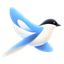
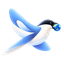
로고를 지구본 문 물까치로 교체
새로 주신 그림으로 갈아 끼웠다. 앞선 것과 같은 손질을 거쳤다.

  · 날개 파랑의 채도를 0.62배로 낮춰 실제 물까치의 하늘색에 맞춘다.
    다만 부리에 문 지구본은 빼고 보정했다 — 바다의 파랑이 날개와 색상대가
    겹쳐서, 그대로 두면 지구본까지 함께 바랜다. 초록(대륙) 픽셀이 모인
    자리로 지구본을 찾아 그 둘레를 보정에서 제외했다.
  · 검은 바탕은 테두리에서 물을 채워 걷어냈다. 검은 두건은 배경과 이어져
    있지 않아 그대로 남는다.
  · 여백 10%를 두고 정사각으로 맞춰 512·192·64로 내보냈다.

밝은 화면과 어두운 화면에 얹어 확인했다. 지구본이 또렷하게 남고 날개만
차분해졌다.

빌드 스탬프 20260903t.

Claude-Session: https://claude.ai/code/session_0111yRyXzGisqdrG9SKT91iY

diff --git a/index.html b/index.html
@@ -13,10 +13,10 @@
 <link rel="stylesheet" crossorigin href="https://cdn.jsdelivr.net/gh/orioncactus/pretendard@v1.3.9/dist/web/static/pretendard.min.css">
 <link href="https://fonts.googleapis.com/css2?family=Space+Grotesk:wght@400;500;600;700&display=swap" rel="stylesheet">
 </noscript>
-<link rel="icon" href="img/magpie-64.png?v=20260903s">
-<link rel="apple-touch-icon" href="img/magpie-192.png?v=20260903s">
+<link rel="icon" href="img/magpie-64.png?v=20260903t">
+<link rel="apple-touch-icon" href="img/magpie-192.png?v=20260903t">
 <script>(function(){try{var m=localStorage.getItem('seji_theme')||(matchMedia('(prefers-color-scheme: light)').matches?'light':'dark');document.documentElement.dataset.theme=m;}catch(e){}})();</script>
-<link rel="stylesheet" href="css/main.css?v=20260903s">
+<link rel="stylesheet" href="css/main.css?v=20260903t">
 </head>
 <body>
 <button id="theme-toggle" type="button" title="화면 밝기 전환" onclick="toggleTheme()"></button>
@@ -28,7 +28,7 @@
       <path d="M-10 150 C 90 150 130 40 260 40 C 390 40 430 150 530 150"/>
     </svg>
     <div class="g3-lockup" aria-label="Geogl3">
-      <img class="g3-bird" src="img/magpie-512.png?v=20260903s" alt="" width="512" height="512" decoding="async"/>
+      <img class="g3-bird" src="img/magpie-512.png?v=20260903t" alt="" width="512" height="512" decoding="async"/>
       <div class="g3-logo">Geogl3</div>
     </div>
     <p class="ld-tag">See the world from above</p>
@@ -4944,25 +4944,25 @@
     <button class="reb secondary" onclick="runPendingReset();document.getElementById('rbq-end').classList.remove('on')">다시 시작</button>
   </div>
 </div>
-<script src="js/data.js?v=20260903s"></script>
-<script src="js/rivers-data.js?v=20260903s"></script>
-<script src="js/climate-data.js?v=20260903s"></script>
-<script src="js/religion-pop-data.js?v=20260903s"></script>
-<script src="js/climate-map-data.js?v=20260903s"></script>
-<script src="js/app.js?v=20260903s"></script>
-<script src="js/climate.js?v=20260903s"></script>
-<script src="js/dict-data.js?v=20260903s"></script>
-<script src="js/flag-colors-data.js?v=20260903s"></script>
-<script src="js/flag-bg-data.js?v=20260903s"></script>
-<script src="js/dict.js?v=20260903s"></script>
-<script src="js/suteuk-data.js?v=20260903s"></script>
-<script src="js/suteuk.js?v=20260903s"></script>
-<script src="js/stat-data.js?v=20260903s"></script>
-<script src="js/stat.js?v=20260903s"></script>
+<script src="js/data.js?v=20260903t"></script>
+<script src="js/rivers-data.js?v=20260903t"></script>
+<script src="js/climate-data.js?v=20260903t"></script>
+<script src="js/religion-pop-data.js?v=20260903t"></script>
+<script src="js/climate-map-data.js?v=20260903t"></script>
+<script src="js/app.js?v=20260903t"></script>
+<script src="js/climate.js?v=20260903t"></script>
+<script src="js/dict-data.js?v=20260903t"></script>
+<script src="js/flag-colors-data.js?v=20260903t"></script>
+<script src="js/flag-bg-data.js?v=20260903t"></script>
+<script src="js/dict.js?v=20260903t"></script>
+<script src="js/suteuk-data.js?v=20260903t"></script>
+<script src="js/suteuk.js?v=20260903t"></script>
+<script src="js/stat-data.js?v=20260903t"></script>
+<script src="js/stat.js?v=20260903t"></script>
 <!-- ════════════════════════════════════════════════════════════
      계정 · 소셜로그인 · 랭킹 (Supabase) — 빌드/명령어 불필요, 이 파일만으로 동작
      ▼▼▼ 여기 두 줄만 본인 Supabase 값으로 바꾸면 끝 ▼▼▼ -->
-<script type="module" src="js/account.js?v=20260903s"></script>
+<script type="module" src="js/account.js?v=20260903t"></script>
 
 </body>
 </html>
